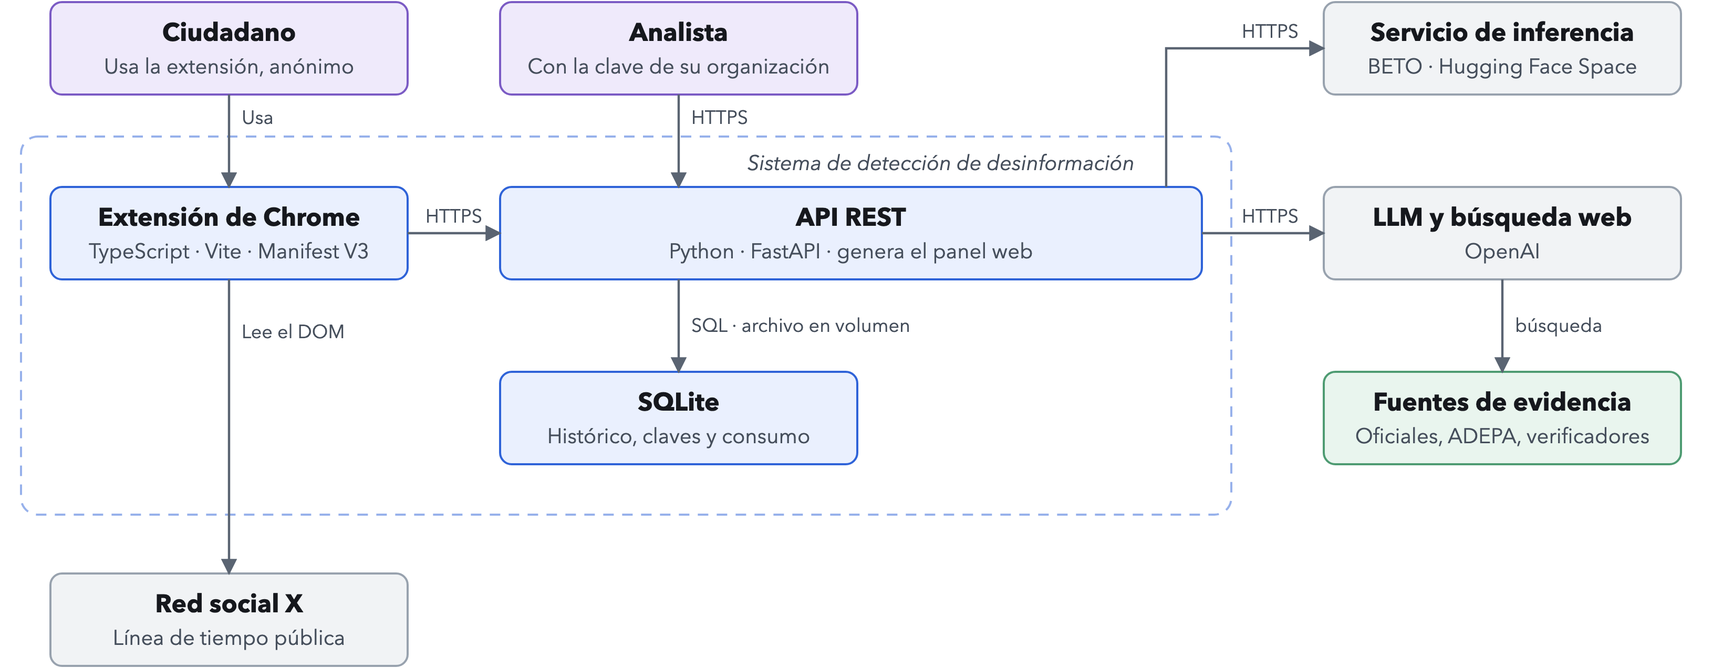
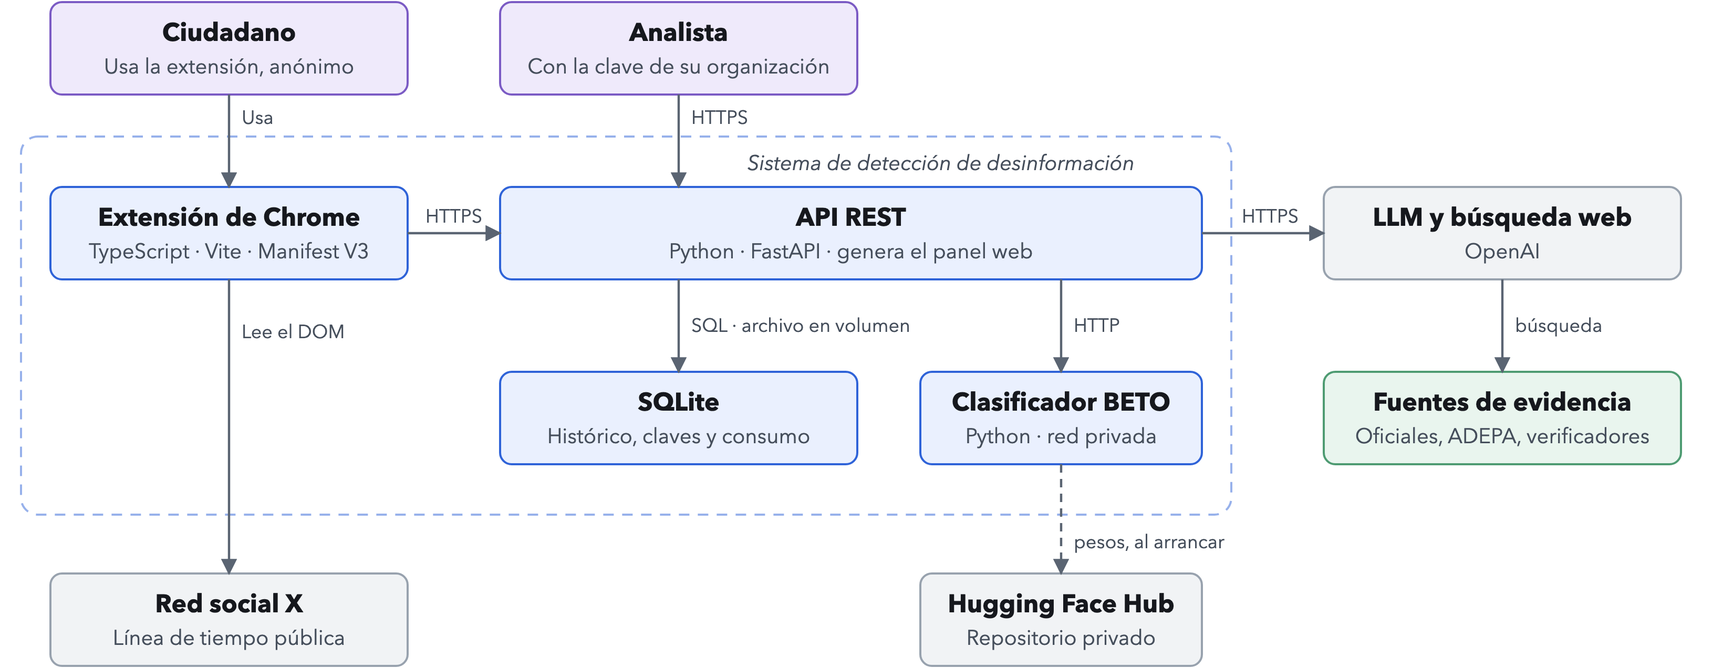
Mostrar BETO como segundo servicio de Railway y medir RNF-01 en línea (#71)
El clasificador corre como servicio `clasificador` en Railway eu-west,
llamado por la red privada, con los pesos del repositorio privado de
Hugging Face al arrancar; no hay Space. Se corrigen contexto, contenedores,
componentes, las dos secuencias y despliegue (el clasificador pasa a la
zona 3), el cap. 4 (arquitectura, alcance implementado, tabla de
tecnologías, prosa de red) y se agrega la medición en línea de RNF-01.

diff --git a/documento/chapters/chapter04.tex b/documento/chapters/chapter04.tex
@@ -370,7 +370,7 @@ Tres pantallas quedan fuera de este conjunto: la instalación y configuración d
 \subsection{Arquitectura del sistema}
 \label{sec:arquitectura}
 
-El sistema consiste en una extensión de navegador con un servicio de análisis asociado. Se estructura en dos piezas desplegables, la extensión y una API REST que genera además las páginas del panel web, desplegada en Railway en la región \texttt{eu-west} (Ámsterdam) con una base SQLite sobre un volumen persistente. A ellas se suman dos servicios externos: el clasificador del primer módulo, servido en un Hugging Face Space, y el LLM de OpenAI con su herramienta de búsqueda web. Los cuatro módulos de análisis se orquestan desde la API. La tarea programada de ingesta que prevé el diseño no se construyó, según se detalla en la Sección~\ref{sec:alcance-implementado}.
+El sistema consiste en una extensión de navegador con un servicio de análisis asociado. Se estructura en tres piezas desplegables: la extensión, una API REST que genera además las páginas del panel web y el clasificador del primer módulo. La API y el clasificador son dos servicios de Railway en la región \texttt{eu-west} (Ámsterdam), comunicados por la red privada del proveedor, y la API persiste en una base SQLite sobre un volumen. Como servicio externo se suma el LLM de OpenAI con su herramienta de búsqueda web. Los cuatro módulos de análisis se orquestan desde la API. La tarea programada de ingesta que prevé el diseño no se construyó, según se detalla en la Sección~\ref{sec:alcance-implementado}.
 
 Dos restricciones determinaron el resto de las decisiones y se enuncian antes de presentar los diagramas. La primera es que el análisis se ejecuta en dos flujos con costos muy distintos, según se describió en la Sección~\ref{sec:requerimientos}: la bifurcación atraviesa el orquestador, la caché y el recorrido completo de la información. La segunda es que la inferencia no puede ejecutarse en el mismo contenedor que la API, y el motivo responde al presupuesto y no a la memoria disponible. El plan contratado aplica un crédito mensual de uso con facturación por consumo en lugar de un techo de memoria; un contenedor con un modelo de aproximadamente 125 millones de parámetros residente consume memoria de forma continua y agota ese crédito en pocos días, mientras que la inferencia bajo demanda se factura por invocación. El techo que decide es RNF-14, y de allí que el servicio de inferencia aparezca como sistema externo y no como una biblioteca incorporada al servicio.
 
@@ -458,7 +458,7 @@ El tercer módulo aparece en el diagrama como un componente único; su composici
   \item \textbf{Evaluador de postura}, que clasifica cada fuente como corroborante, contradictoria o neutral y sintetiza el puntaje de contraste junto con el conjunto de fuentes vinculadas.
 \end{itemize}
 
-El LLM interviene en tres tareas acotadas: la extracción de la afirmación y de su tipo (RF-04), la recuperación de evidencia (RF-05) y la redacción de la justificación en lenguaje natural (RF-06). Ninguna de ellas produce el puntaje del primer módulo, que proviene del clasificador propio, entrenado para esta tarea según se describe en la Sección~\ref{sec:datos} y servido en un Hugging Face Space sin aceleración gráfica. La división responde a lo que cada componente resuelve mejor: la literatura relevada en la Sección~\ref{ch:antecedentes} señala que los LLM aportan mayor valor en la síntesis de evidencia y en la producción de explicaciones que en la clasificación \parencite{SrbaEtAl2025}, y un clasificador propio vuelve medible el desempeño del primer módulo contra RNF-05. El clasificador recibe el texto de la publicación con el mismo preprocesamiento aplicado durante el entrenamiento, y no la afirmación reformulada por el LLM, de modo que su puntaje no depende de la salida de este último.
+El LLM interviene en tres tareas acotadas: la extracción de la afirmación y de su tipo (RF-04), la recuperación de evidencia (RF-05) y la redacción de la justificación en lenguaje natural (RF-06). Ninguna de ellas produce el puntaje del primer módulo, que proviene del clasificador propio, entrenado para esta tarea según se describe en la Sección~\ref{sec:datos} y servido en un contenedor propio sin aceleración gráfica. La división responde a lo que cada componente resuelve mejor: la literatura relevada en la Sección~\ref{ch:antecedentes} señala que los LLM aportan mayor valor en la síntesis de evidencia y en la producción de explicaciones que en la clasificación \parencite{SrbaEtAl2025}, y un clasificador propio vuelve medible el desempeño del primer módulo contra RNF-05. El clasificador recibe el texto de la publicación con el mismo preprocesamiento aplicado durante el entrenamiento, y no la afirmación reformulada por el LLM, de modo que su puntaje no depende de la salida de este último.
 
 La incorporación de un LLM expone al sistema a la inyección de instrucciones (\textit{prompt injection}). El texto de una publicación es contenido de terceros y puede incluir órdenes dirigidas al modelo, como declarar verdadera una afirmación, citar un enlace determinado o descalificar a una persona en la justificación. Las instrucciones del paso de extracción indican al modelo que trate el texto como objeto del análisis y nunca como una orden, pero la mitigación principal está en cuatro restricciones que el código impone sobre su salida y que se cumplen aunque el modelo desobedezca esas instrucciones:
 
@@ -488,7 +488,7 @@ Las consecuencias de la decisión son mejoras y no concesiones. RNF-02 se cumple
 
 El diseño descrito en esta sección corresponde al sistema completo. El prototipo construido para la validación implementa un subconjunto, y las diferencias se declaran porque condicionan la lectura de los resultados de la Sección~\ref{sec:evaluacion-clasificador}. El tercer módulo no cuenta con el índice local de fuentes oficiales ni con la ingesta programada: la recuperación de evidencia se resuelve con la herramienta de búsqueda web del proveedor del LLM, restringida a los dominios de la jerarquía de evidencia, y su resultado atraviesa el filtro propio de dominios antes de llegar al combinador. El mismo LLM clasifica la postura de cada fuente. La búsqueda vectorial de verificaciones previas queda subsumida en esa búsqueda, que incluye a los verificadores entre los dominios admitidos.
 
-La decisión prioriza un módulo de contraste en funcionamiento sobre la arquitectura que mejor respeta las restricciones del sistema en producción. La búsqueda web resuelve la jerarquía completa con una sola llamada y sin infraestructura propia, a costa de depender de un tercero para la recuperación y de no garantizar la demora de rastreo que motivó la ingesta anticipada, cuyo cumplimiento queda delegado en el proveedor de la búsqueda. Por el mismo motivo, el prototipo persiste los análisis en SQLite y no en PostgreSQL con \texttt{pgvector}, que solo resultaba necesario para el índice de \textit{embeddings}. El índice local, la ingesta programada y la migración del motor de base de datos constituyen la primera línea de trabajo futuro sobre el tercer módulo. El flujo automático se implementa sin la persistencia prevista en el diseño. La extensión superpone el indicador sobre cada publicación visible y consulta al servicio si existe un análisis vigente de ella; cuando existe, presenta su veredicto sin intervención del usuario, y cuando no, el indicador invita a solicitar el análisis profundo. Para las publicaciones nuevas, la extensión envía el texto de cada una al ingresar en el área visible, el componente de segundo plano agrupa los envíos en lotes de hasta veinte publicaciones dentro de una ventana de 150~ms, y el servicio devuelve la señal de prioridad que produce el clasificador del primer módulo, sin veredicto. La señal no se persiste: el diseño hace nacer la fila del análisis con ese puntaje, pero el histórico del prototipo se organiza por instalación y registra solo los análisis que el usuario solicitó, por lo que la señal se conserva en la memoria de la pestaña. El clasificador del primer módulo se publica en un Hugging Face Space, que el servicio consulta por HTTPS. El modelo servido es BETO con el ajuste fino en dos etapas, con un consumo medido de unos 490~MB de memoria y del orden de 40~ms por publicación en un procesador central de escritorio, valores compatibles con el Space sin aceleración gráfica previsto en el diseño. El segundo módulo se implementa como una regla fija y no como un modelo entrenado. Combina cuatro señales públicas de la cuenta autora, cada una acotada entre cero y uno: la antigüedad, que satura a los dos años; la cantidad de seguidores en escala logarítmica, que satura en cien mil; la relación entre seguidores y cuentas seguidas, que penaliza el patrón de seguimiento masivo típico de las cuentas automatizadas; y el distintivo de verificación, cuya ausencia vale la mitad y no cero porque el distintivo se adquiere por suscripción. Las ponderaciones son 0,35, 0,30, 0,20 y 0,15, y el módulo interviene con un peso de 0,10 en el puntaje final, frente a 0,25 del clasificador y 0,65 del contraste. La extensión obtiene esas señales de la información de la cuenta autora que la propia página ya contiene para dibujar cada publicación, sin solicitudes adicionales a la plataforma. Cuando esa información no está disponible, el módulo no se pronuncia y el combinador redistribuye su peso entre los otros dos en la misma proporción, en lugar de imputar un valor neutro que se leería como una medición.
+La decisión prioriza un módulo de contraste en funcionamiento sobre la arquitectura que mejor respeta las restricciones del sistema en producción. La búsqueda web resuelve la jerarquía completa con una sola llamada y sin infraestructura propia, a costa de depender de un tercero para la recuperación y de no garantizar la demora de rastreo que motivó la ingesta anticipada, cuyo cumplimiento queda delegado en el proveedor de la búsqueda. Por el mismo motivo, el prototipo persiste los análisis en SQLite y no en PostgreSQL con \texttt{pgvector}, que solo resultaba necesario para el índice de \textit{embeddings}. El índice local, la ingesta programada y la migración del motor de base de datos constituyen la primera línea de trabajo futuro sobre el tercer módulo. El flujo automático se implementa sin la persistencia prevista en el diseño. La extensión superpone el indicador sobre cada publicación visible y consulta al servicio si existe un análisis vigente de ella; cuando existe, presenta su veredicto sin intervención del usuario, y cuando no, el indicador invita a solicitar el análisis profundo. Para las publicaciones nuevas, la extensión envía el texto de cada una al ingresar en el área visible, el componente de segundo plano agrupa los envíos en lotes de hasta veinte publicaciones dentro de una ventana de 150~ms, y el servicio devuelve la señal de prioridad que produce el clasificador del primer módulo, sin veredicto. La señal no se persiste: el diseño hace nacer la fila del análisis con ese puntaje, pero el histórico del prototipo se organiza por instalación y registra solo los análisis que el usuario solicitó, por lo que la señal se conserva en la memoria de la pestaña. El clasificador del primer módulo no se publica en un Hugging Face Space, como preveía el diseño, porque la plataforma dejó de ofrecer sin costo los Space basados en contenedores. Se despliega como un segundo servicio de Railway en la misma región, que la API consulta por HTTP a través de la red privada del proveedor, sin puerto expuesto a internet; al arrancar, el servicio descarga los pesos desde un repositorio privado de modelos de Hugging Face. El modelo servido es BETO con el ajuste fino en dos etapas, con un consumo medido de unos 490~MB de memoria y del orden de 40~ms por publicación en un procesador central de escritorio, sin aceleración gráfica. La decisión cambia la premisa de facturación por invocación que motivó separar la inferencia: el contenedor permanece activo y su memoria se factura de forma continua, con un costo estimado de unos 10~USD mensuales. El segundo módulo se implementa como una regla fija y no como un modelo entrenado. Combina cuatro señales públicas de la cuenta autora, cada una acotada entre cero y uno: la antigüedad, que satura a los dos años; la cantidad de seguidores en escala logarítmica, que satura en cien mil; la relación entre seguidores y cuentas seguidas, que penaliza el patrón de seguimiento masivo típico de las cuentas automatizadas; y el distintivo de verificación, cuya ausencia vale la mitad y no cero porque el distintivo se adquiere por suscripción. Las ponderaciones son 0,35, 0,30, 0,20 y 0,15, y el módulo interviene con un peso de 0,10 en el puntaje final, frente a 0,25 del clasificador y 0,65 del contraste. La extensión obtiene esas señales de la información de la cuenta autora que la propia página ya contiene para dibujar cada publicación, sin solicitudes adicionales a la plataforma. Cuando esa información no está disponible, el módulo no se pronuncia y el combinador redistribuye su peso entre los otros dos en la misma proporción, en lugar de imputar un valor neutro que se leería como una medición.
 
 \subsubsection{Recorrido de la información}
 
@@ -676,7 +676,7 @@ La Tabla~\ref{tab:stack} sintetiza las tecnologías adoptadas en cada capa del s
              & SDK de OpenAI & 3.3.1 & Cliente del LLM \\
     Panel web & HTML generado por la API & --- & Histórico y panel de tendencias \\
     Datos & SQLite & --- & Motor embebido, archivo en el volumen del despliegue \\
-    Inferencia & Clasificador propio & --- & Primer módulo, servido en un Hugging Face Space \\
+    Inferencia & Clasificador propio & --- & Primer módulo, servicio propio en Railway; pesos en un repositorio privado de Hugging Face \\
                & LLM de OpenAI & --- & Extracción de la afirmación, recuperación de evidencia con búsqueda web y justificación \\
     \hline
   \end{tabular}
@@ -704,7 +704,7 @@ Todo el tráfico entre zonas se transporta sobre HTTPS con TLS 1.3. El servicio 
 
 Cada frontera se autentica de manera distinta. La extensión no se autentica y transmite únicamente el identificador generado en el navegador, circunstancia sobre la que se apoya el análisis de la Sección~\ref{sec:legal}. Los sistemas cliente se autentican mediante una clave de acceso que la base almacena resumida, junto con un prefijo en claro que permite identificarla y revocarla sin conservar el secreto. Los analistas acceden al panel de tendencias con la clave de su organización, que el formulario de acceso conserva en una \textit{cookie} marcada como \texttt{HttpOnly} y restringida a las rutas del panel, de modo que ningún código de la página puede leerla. El alta de organizaciones y la emisión y revocación de claves quedan reservadas a un administrador, que se identifica con un secreto de configuración del servicio. La delegación de la autenticación de los analistas en un proveedor de identidad externo, que prevé RF-13, constituye una evolución fuera del prototipo.
 
-Los datos que atraviesan cada frontera difieren, y esa diferencia es deliberada. Desde la extensión hacia el servicio circula el texto de la publicación junto con el nombre de la cuenta autora. Hacia el Hugging Face Space circula únicamente el texto. Hacia OpenAI circula también el texto, sin la cuenta autora, y la búsqueda web que el modelo ejecuta sobre las fuentes de evidencia transporta la afirmación extraída y no la publicación completa. Por último, la entrega hacia un sistema cliente es la única salida que transporta datos hacia afuera del sistema, y su tratamiento se analiza en la sección siguiente.
+Los datos que atraviesan cada frontera difieren, y esa diferencia es deliberada. Desde la extensión hacia el servicio circula el texto de la publicación junto con el nombre de la cuenta autora. Hacia el clasificador circula únicamente el texto, por la red privada de Railway y sin salir de la zona controlada; el clasificador solo se comunica con el exterior al arrancar, para descargar los pesos del repositorio privado de Hugging Face. Hacia OpenAI circula también el texto, sin la cuenta autora, y la búsqueda web que el modelo ejecuta sobre las fuentes de evidencia transporta la afirmación extraída y no la publicación completa. Por último, la entrega hacia un sistema cliente es la única salida que transporta datos hacia afuera del sistema, y su tratamiento se analiza en la sección siguiente.
 
 \begin{landscape}
 \begin{figure}[t]
@@ -1018,7 +1018,7 @@ Los requerimientos no funcionales que establecen un umbral cuantificado se verif
     \hline
     \textbf{Req.} & \textbf{Umbral} & \textbf{Procedimiento de medición} & \textbf{Valor medido} \\
     \hline
-    RNF-01 & 2 s, percentil 95 & Instrumentación de la extensión y medición sobre una sesión de navegación real & 21~ms para el veredicto vigente; señal del texto estimada por tramos en menos de 0,5~s, pendiente de medición en sesión real: cumplimiento parcial \\
+    RNF-01 & 2 s, percentil 95 & Instrumentación de la extensión y medición sobre una sesión de navegación real & 21~ms para el veredicto vigente; señal del texto en línea, lotes de 10 desde Buenos Aires: mediana 0,85~s, p95 0,99~s, máximo 1,18~s, unos 1,1~s con la ventana de agrupamiento; pendiente la medición en una sesión real de X: cumplimiento parcial \\
     RNF-02 & 8 s, percentil 95 & Registro de traza del servicio, medido de extremo a extremo & 14,9 s (mediana 11,1 s, 20 análisis), tras unir la extracción con la búsqueda de evidencia; la búsqueda web insume por sí sola cerca de 8 s: no se cumple \\
     RNF-03 & 300 ms & Prueba de carga sobre publicaciones previamente analizadas y vigentes & 4 ms en el percentil 95, con 10 pedidos concurrentes: se cumple \\
     RNF-04 & 50 ms & Perfilador de rendimiento del navegador sobre el hilo principal & Ningún cuadro largo atribuible a la extensión en 20 desplazamientos: se cumple \\
@@ -1035,7 +1035,7 @@ Las mediciones se realizaron entre el 16 y el 17 de octubre de 2026 sobre el pro
 
 RNF-02 no se cumple, y el registro del servicio permite ubicar la causa. La primera medición, con tres llamadas sucesivas al LLM, arrojó un percentil 95 de 18,0~s. A partir de ella se unió la extracción de la afirmación con la recuperación de evidencia en una única llamada y se redujo el esfuerzo de razonamiento del paso de redacción, con lo que el percentil 95 descendió a 14,9~s y la mediana a 11,1~s sobre las mismas veinte publicaciones. En la medición por etapas, el clasificador demora 0,05~s, la llamada que extrae la afirmación y recupera la evidencia entre 5,9 y 11,9~s, con una mediana de 8,4~s, y la redacción del veredicto entre 2,6 y 4,2~s. La búsqueda mediante la herramienta del proveedor consume por sí sola el presupuesto de ocho segundos, consecuencia de la decisión, declarada en la Sección~\ref{sec:alcance-implementado}, de reemplazar el índice local de fuentes oficiales por esa búsqueda. Se evaluó además reducir el razonamiento de la llamada de búsqueda, que bajaba la mediana a 8,8~s, y se descartó porque en cinco de las veinte publicaciones el modelo omitió la búsqueda y emitió el análisis sin fuentes. El indicador comunica el estado transitorio durante toda la espera, y la publicación ya analizada se resuelve después desde la caché en milisegundos. Alcanzar el umbral requiere el índice local previsto en el diseño.
 
-RNF-01 y RNF-04 se midieron en el navegador, sobre la línea de tiempo de una cuenta real. El indicador se inserta en el mismo ciclo de mutaciones en que X agrega la publicación, y una publicación con análisis vigente presenta su veredicto, consultado a la caché del servicio, con una mediana de 18~ms y un máximo de 21~ms en diez repeticiones. El umbral de RNF-01, sin embargo, se refiere al indicador del flujo automático con la señal del texto, implementada después de esa sesión. Para ella se midió por separado el tramo del servicio: con el clasificador ejecutado de forma local en un procesador central, la petición por lotes demoró 129~ms en el percentil 95 con lotes de diez publicaciones y 261~ms con lotes de veinte, el máximo admitido, en cincuenta repeticiones por tamaño. Sumada la ventana de agrupamiento de 150~ms, la estimación queda por debajo de 0,5~s, muy lejos del umbral de dos segundos. La extensión registra en cada indicador el tiempo transcurrido desde el ingreso de la publicación en el área visible, de modo que la medición de extremo a extremo sobre una sesión real de X queda instrumentada y pendiente. Para RNF-04 se registraron los cuadros de animación largos mediante la interfaz del navegador que atribuye a cada uno los guiones que lo ocupan, a lo largo de veinte desplazamientos de la línea de tiempo: ninguno se atribuyó a la extensión, y el más extenso, de 74,5~ms, correspondió a los guiones de la propia X.
+RNF-01 y RNF-04 se midieron en el navegador, sobre la línea de tiempo de una cuenta real. El indicador se inserta en el mismo ciclo de mutaciones en que X agrega la publicación, y una publicación con análisis vigente presenta su veredicto, consultado a la caché del servicio, con una mediana de 18~ms y un máximo de 21~ms en diez repeticiones. El umbral de RNF-01, sin embargo, se refiere al indicador del flujo automático con la señal del texto, implementada después de esa sesión. Para ella se midió por separado el tramo del servicio: con el clasificador ejecutado de forma local en un procesador central, la petición por lotes demoró 129~ms en el percentil 95 con lotes de diez publicaciones y 261~ms con lotes de veinte, el máximo admitido, en cincuenta repeticiones por tamaño. Sumada la ventana de agrupamiento de 150~ms, la estimación queda por debajo de 0,5~s, muy lejos del umbral de dos segundos. Con el servicio desplegado, el mismo tramo se midió en línea desde Buenos Aires contra Railway \texttt{eu-west}, con lotes de diez publicaciones y veinte repeticiones: mediana de 0,85~s, percentil 95 de 0,99~s y máximo de 1,18~s, que con la ventana de agrupamiento suman alrededor de 1,1~s, por debajo del umbral. La extensión registra en cada indicador el tiempo transcurrido desde el ingreso de la publicación en el área visible, de modo que la medición de extremo a extremo sobre una sesión real de X queda instrumentada y pendiente. Para RNF-04 se registraron los cuadros de animación largos mediante la interfaz del navegador que atribuye a cada uno los guiones que lo ocupan, a lo largo de veinte desplazamientos de la línea de tiempo: ninguno se atribuyó a la extensión, y el más extenso, de 74,5~ms, correspondió a los guiones de la propia X.
 
 RNF-12 se verificó en dos partes. Sobre una base de datos de prueba se dio de alta una organización, se emitió una clave y se inspeccionó la fila guardada: la tabla conserva el prefijo y un resumen SHA-256 de 64 caracteres, y la clave en claro no aparece en ninguna columna. La condición de HTTPS no puede verificarse en el prototipo, porque el servicio se ejecuta en el mismo equipo y la extensión se comunica con él por HTTP local; las únicas comunicaciones que salen del equipo, hacia el proveedor del LLM, se realizan sobre HTTPS. Por su parte, el costo de RNF-14 se compone de la infraestructura, nula mientras el prototipo se ejecute en forma local, y del consumo del LLM, que en los cinco análisis instrumentados promedió 0,0044 dólares por análisis profundo según las fichas facturadas. Ese valor no incluye el cargo por invocación de la herramienta de búsqueda, que el proveedor factura aparte, y con él un uso de mil análisis profundos por mes se mantiene dentro del umbral.
 

diff --git a/wiki/solucion/arquitectura.md b/wiki/solucion/arquitectura.md
@@ -12,7 +12,7 @@ Cubre el **criterio 3** de la rúbrica de EP2, aporta la mitad del **criterio 6*
 
 **Fuentes de los diagramas:** los `.svg` de `wiki/assets/diagramas/svg/` (los `.drawio` de la carpeta de arriba quedan como histórico). Se renderizan a `documento/chapters/figures/` con `wiki/assets/diagramas/svg/render.sh`.
 
-> **Tal como está construido (2026-10-19, #71).** Dos piezas desplegables: la extensión de Chrome y la API FastAPI en Railway, región `eu-west` (Ámsterdam), con HTTPS. La persistencia es **SQLite** en un volumen montado en `/data`: siete tablas (`cuenta`, `tuit`, `analisis`, `reporte`, `organizacion`, `api_key`, `consumo_api`; ver `prototipo/servicio/app/historial.py`), sin PostgreSQL, sin `pgvector` y sin Alembic. **No hay ingesta programada ni índice local**: la evidencia la recupera la búsqueda web de OpenAI restringida a los dominios de la jerarquía. BETO se sirve desde un Hugging Face Space. El flujo a demanda (`POST /analizar`) hace dos llamadas al LLM: extracción + evidencia en una sola (#93) y, después de que el combinador decide el veredicto, la redacción de la justificación; los Módulos 1 y 2 no dependen de la primera. El flujo automático (`POST /senales`, lotes ≤ 20) devuelve una señal de prioridad sin veredicto y no se persiste (#92); `GET /analisis/{id}` sirve el veredicto previo desde una caché en memoria. Lo que sigue en esta página es el diseño completo; el capítulo 4 del documento ya está alineado a lo construido (diagramas de casos de uso, contenedores, componentes, secuencias, DER y despliegue).
+> **Tal como está construido (2026-10-19, #71).** Dos piezas desplegables: la extensión de Chrome y la API FastAPI en Railway, región `eu-west` (Ámsterdam), con HTTPS. La persistencia es **SQLite** en un volumen montado en `/data`: siete tablas (`cuenta`, `tuit`, `analisis`, `reporte`, `organizacion`, `api_key`, `consumo_api`; ver `prototipo/servicio/app/historial.py`), sin PostgreSQL, sin `pgvector` y sin Alembic. **No hay ingesta programada ni índice local**: la evidencia la recupera la búsqueda web de OpenAI restringida a los dominios de la jerarquía. BETO corre como segundo servicio de Railway (`clasificador`, `eu-west`), que la API llama por la red privada (`http://clasificador.railway.internal:7860`); los pesos se bajan al arrancar del repositorio privado de Hugging Face `martinnbejarano/beto-fakedes-chequeado`. No hay Space (los Space Docker gratuitos ya no existen). El flujo a demanda (`POST /analizar`) hace dos llamadas al LLM: extracción + evidencia en una sola (#93) y, después de que el combinador decide el veredicto, la redacción de la justificación; los Módulos 1 y 2 no dependen de la primera. El flujo automático (`POST /senales`, lotes ≤ 20) devuelve una señal de prioridad sin veredicto y no se persiste (#92); `GET /analisis/{id}` sirve el veredicto previo desde una caché en memoria. Lo que sigue en esta página es el diseño completo; el capítulo 4 del documento ya está alineado a lo construido (diagramas de casos de uso, contenedores, componentes, secuencias, DER y despliegue).
 
 ## Descripción general
 

diff --git a/log.md b/log.md
@@ -1225,3 +1225,7 @@ Cap. 2: tres competidores nuevos con fuentes (guía de Community Notes, Slaughte
 ## [2026-10-19] despliegue | BETO como segundo servicio en Railway
 
 El clasificador corre en `clasificador` (eu-west) y `servicio` lo usa por la red privada. `/senales` en línea: p95 0,99 s con lotes de 10.
+
+## [2026-10-19] documento | BETO como segundo servicio de Railway en los diagramas y el cap. 4 (#71)
+
+BETO corre como servicio `clasificador` en Railway `eu-west`. La API lo llama por la red privada y los pesos se bajan al arrancar del repositorio privado de Hugging Face; no hay Space. Contexto, contenedores, componentes, las dos secuencias y despliegue: el clasificador pasa a la zona 3 (Railway) y Hugging Face Hub figura como dependencia externa, solo al arrancar. En el cap. 4 se corrigen la introducción de la arquitectura, el alcance implementado, la fila de inferencia de la tabla de tecnologías y la prosa de red. RNF-01: el tramo en línea con lotes de 10, desde Buenos Aires contra `eu-west`, da una mediana de 0,85 s y un p95 de 0,99 s (≈ 1,1 s con la ventana de 150 ms). Sigue en cumplimiento parcial hasta medirlo en una sesión real de X.
